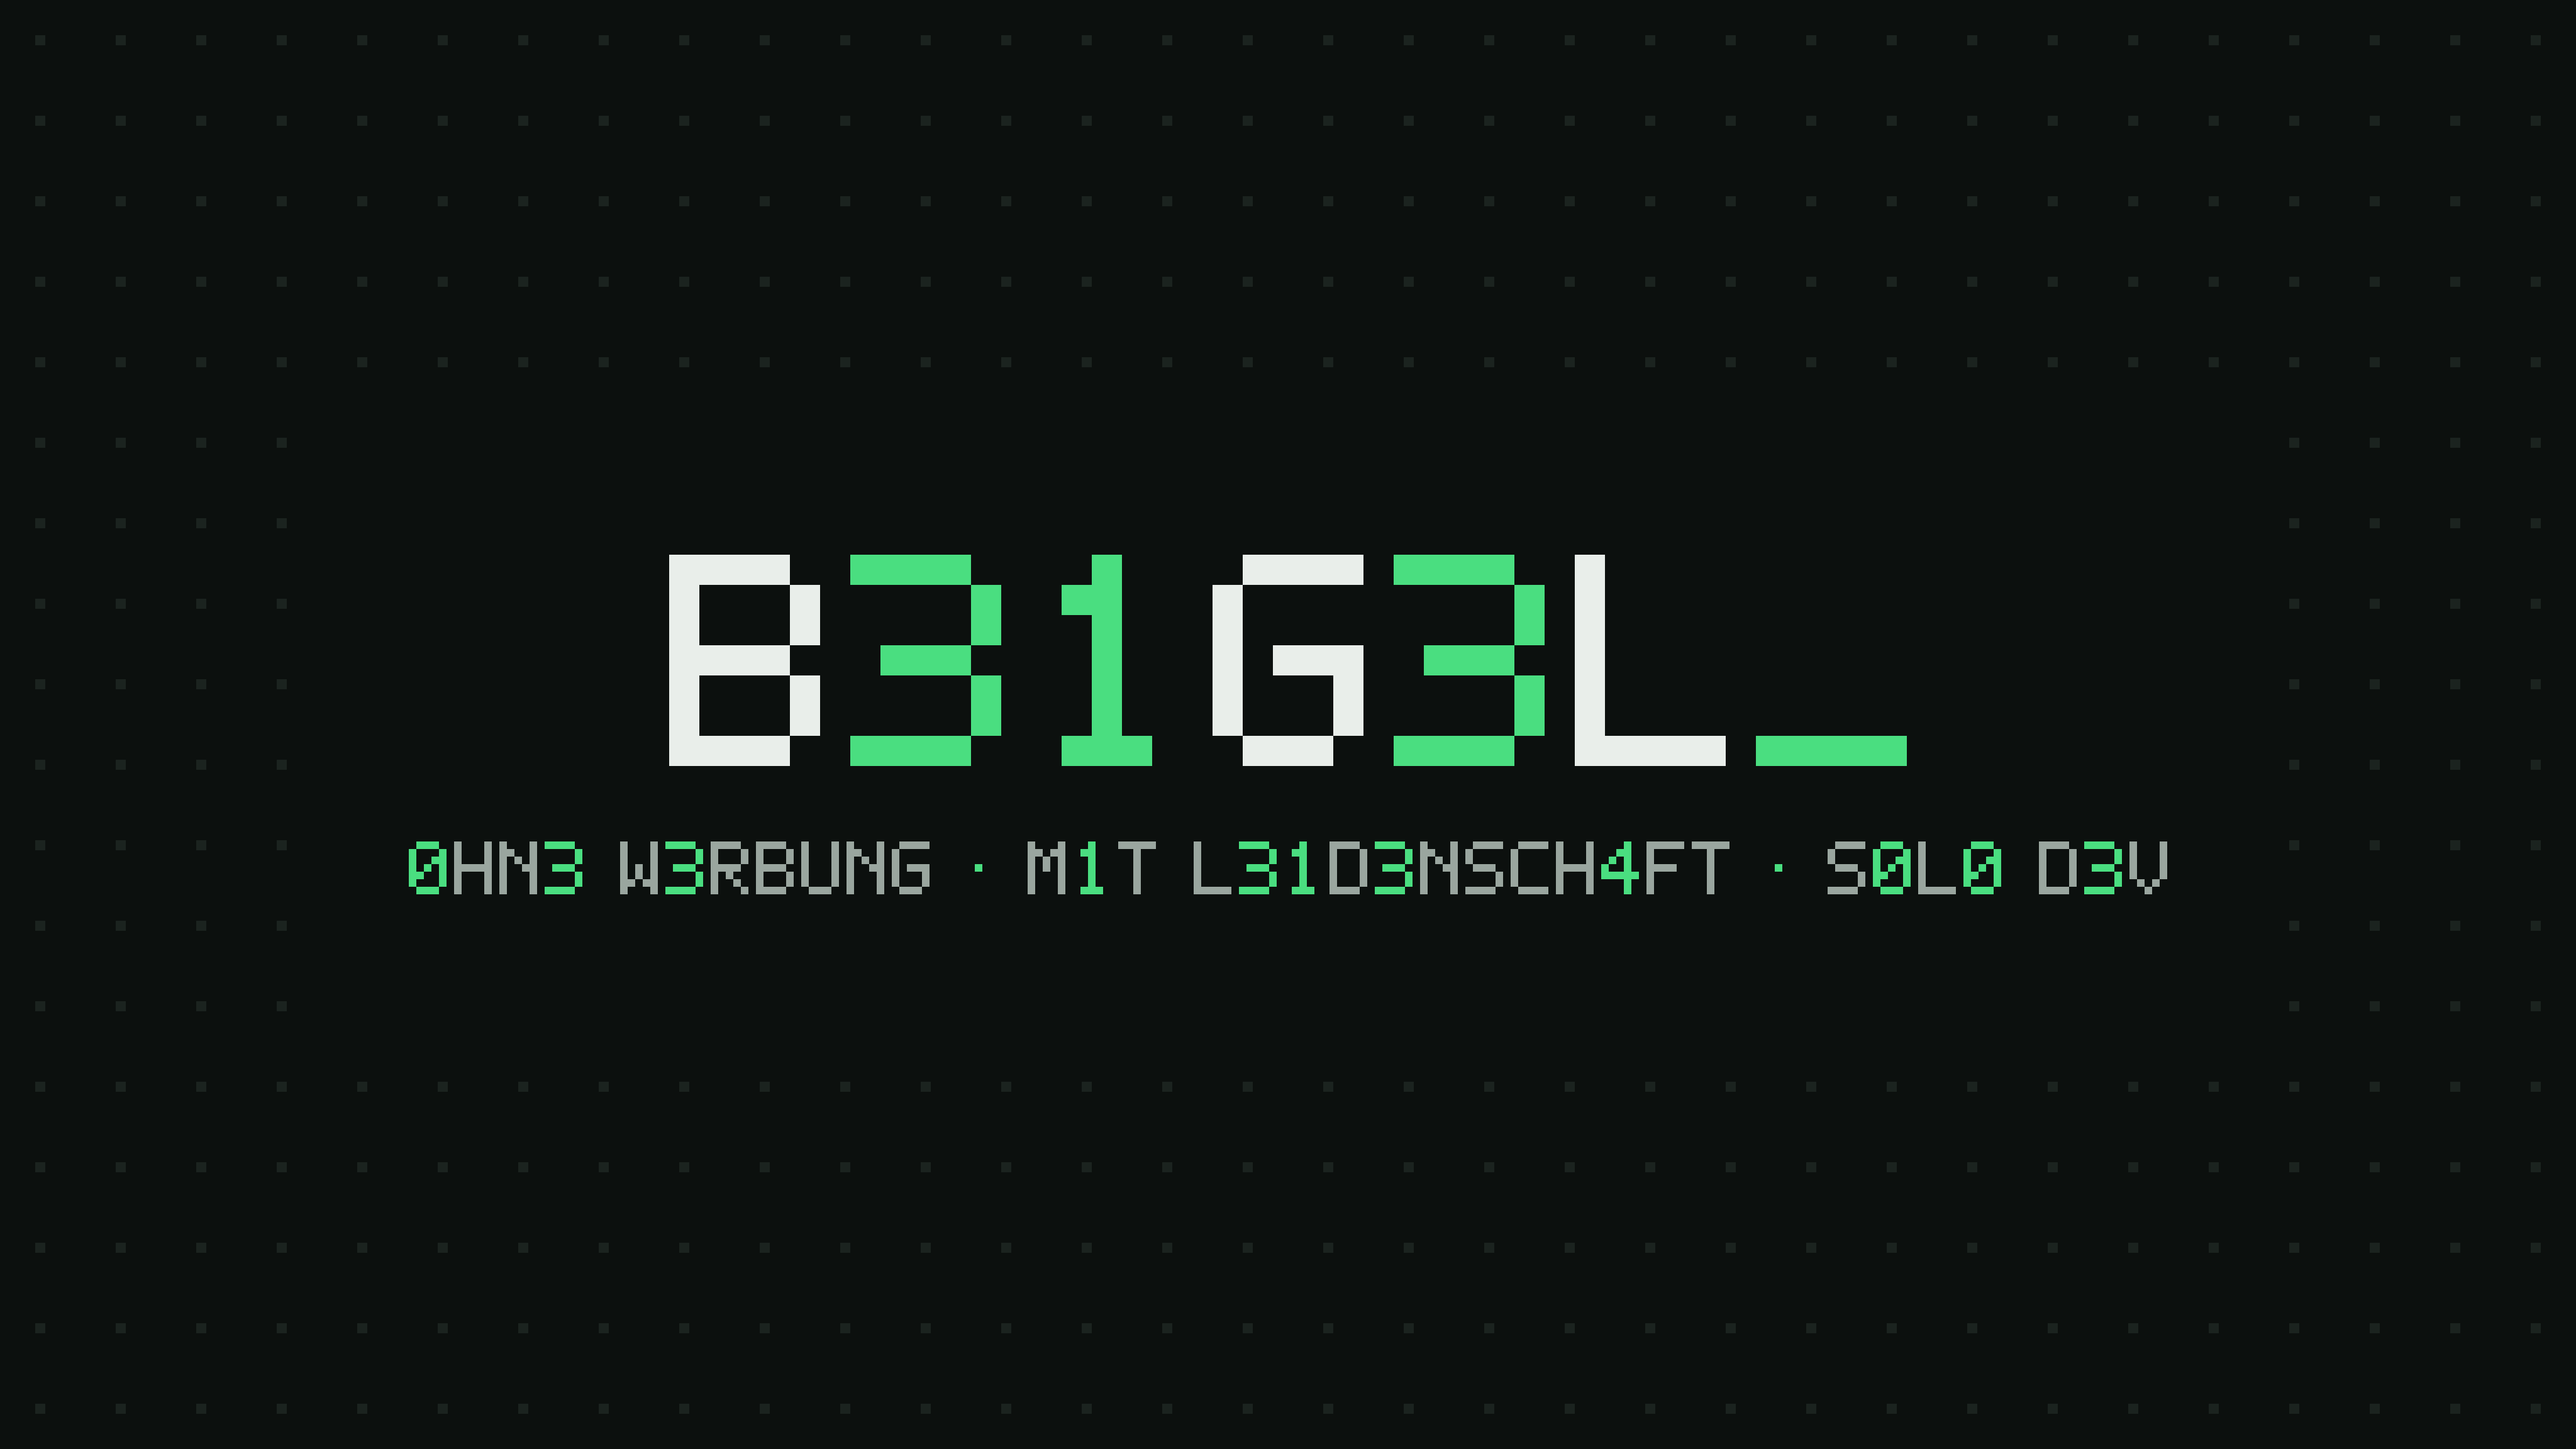
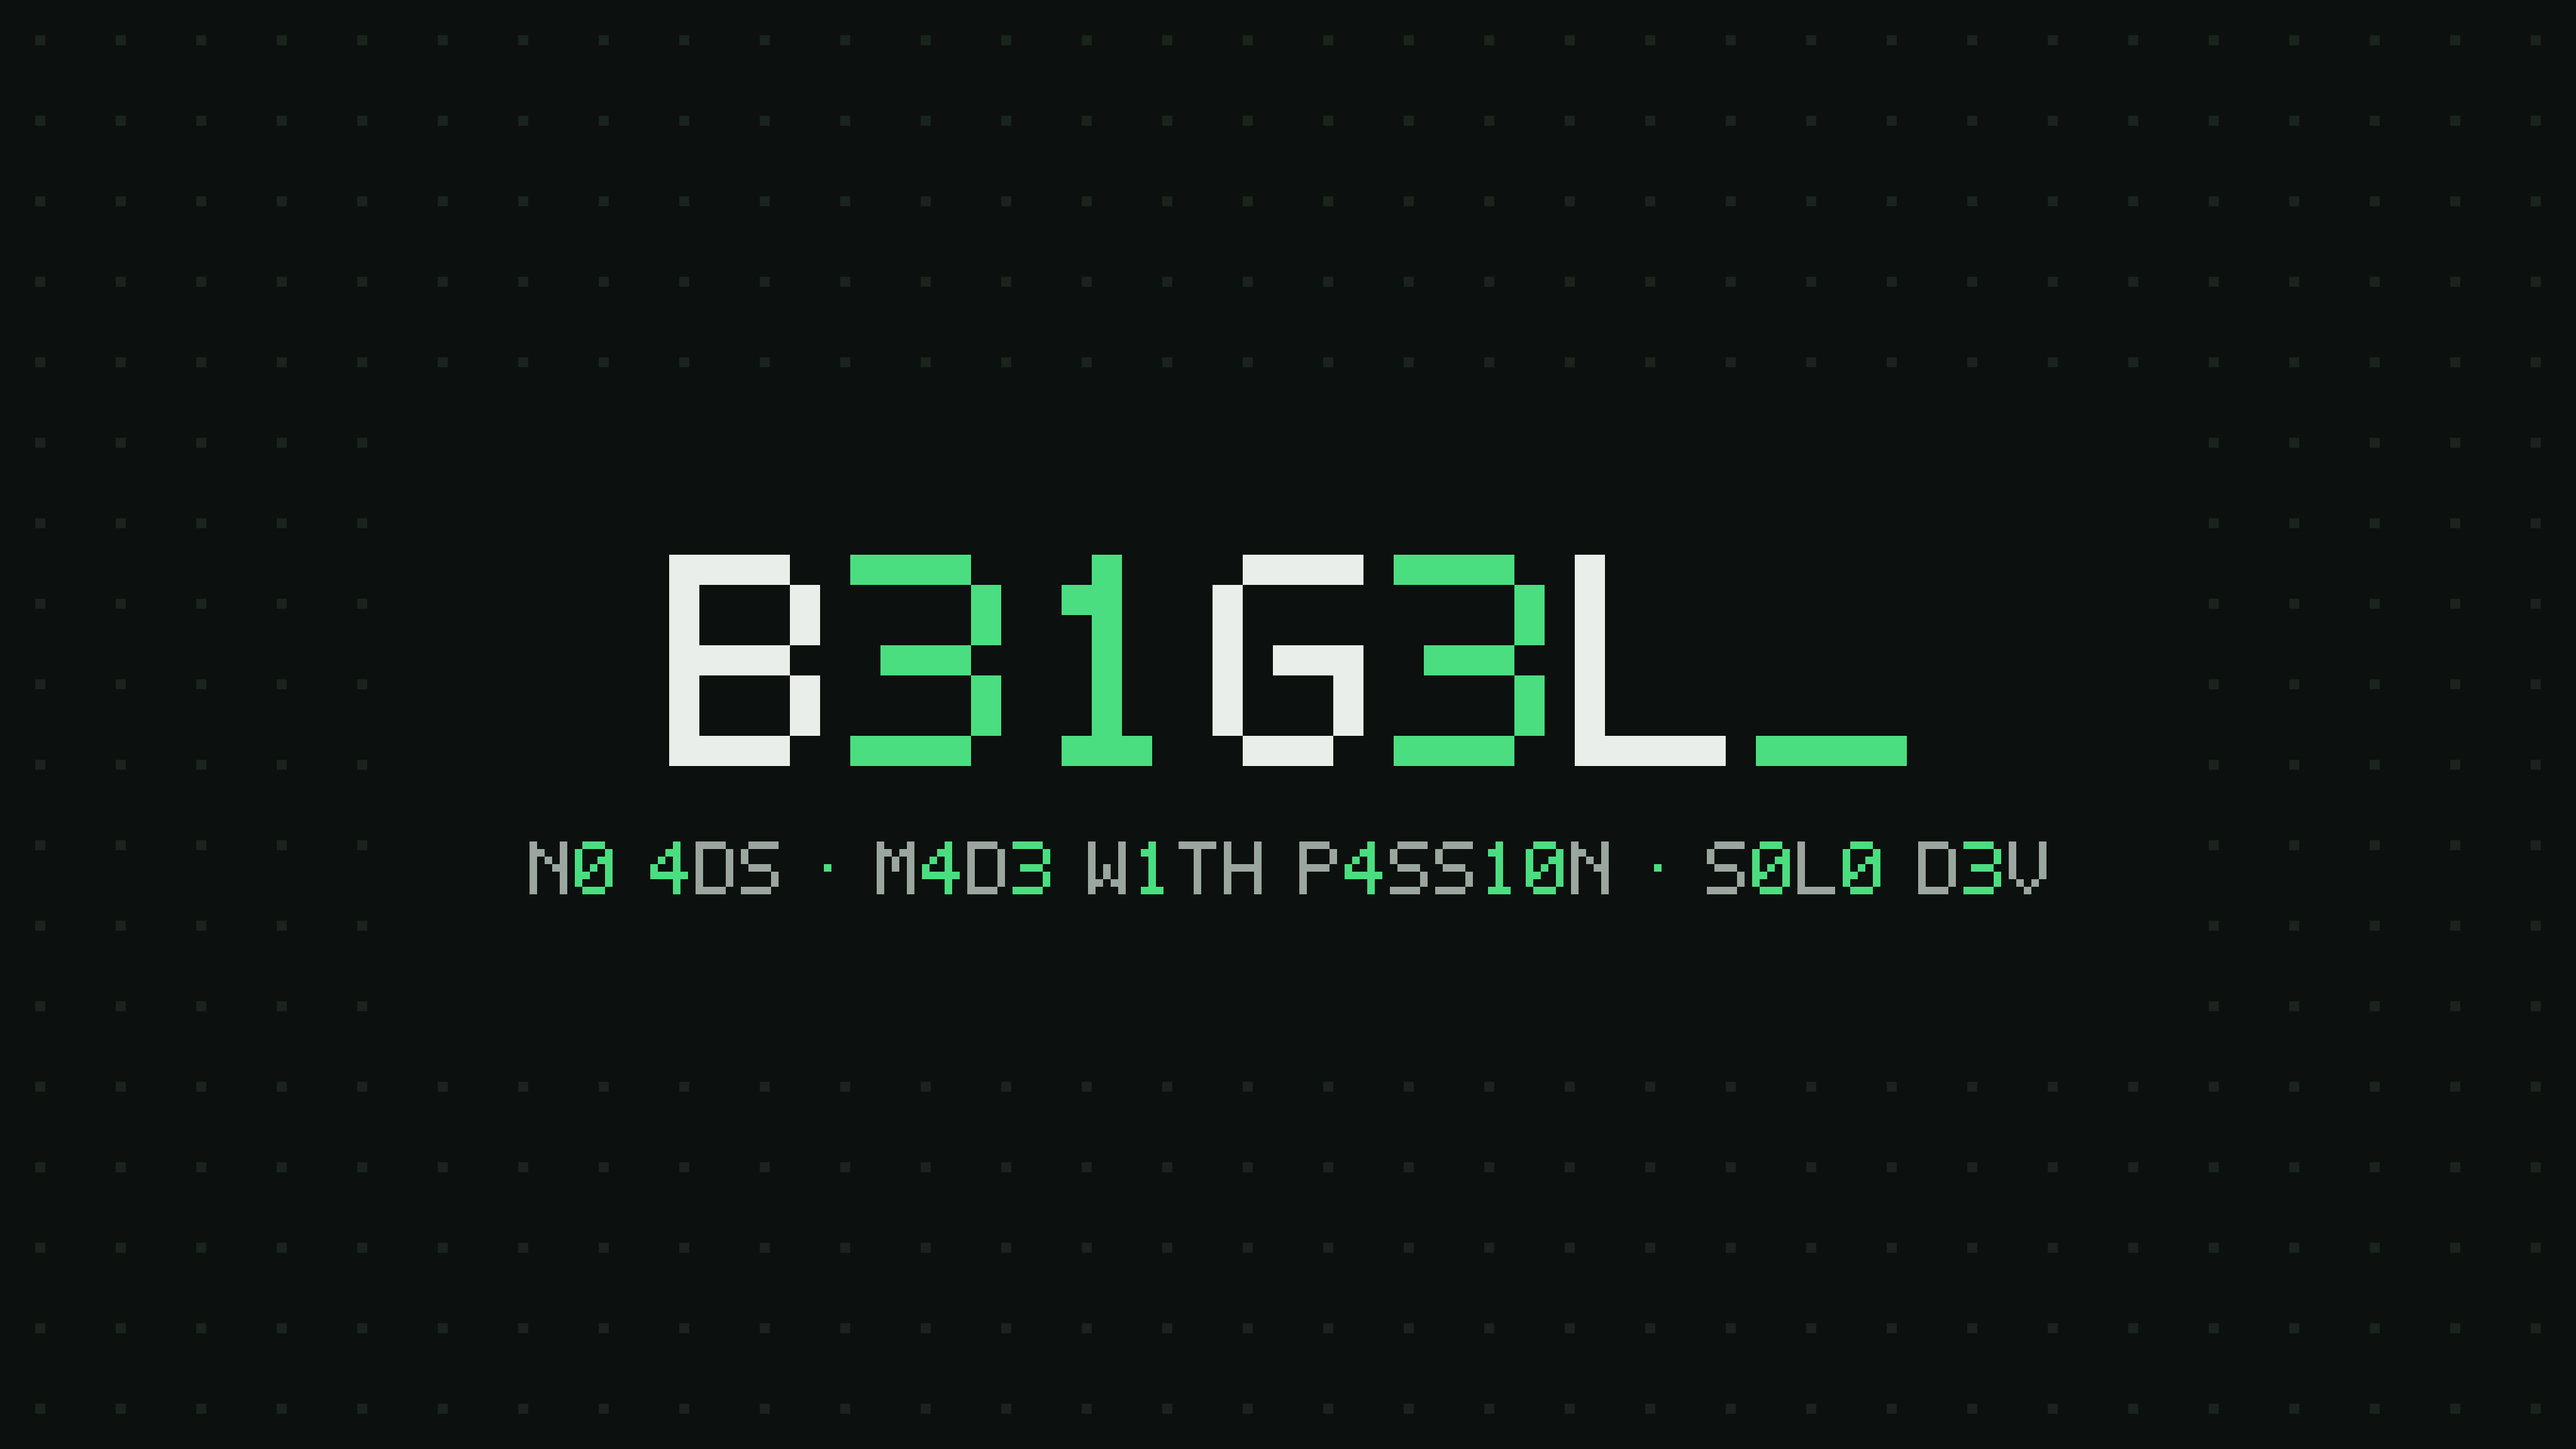
Play-Header: Schlagworte auf Englisch

Changed region(s): [[0.1562, 0.5625, 0.8438, 0.625]]

diff --git a/brand/make-brand.js b/brand/make-brand.js
@@ -26,6 +26,7 @@ const G = {
   C: ['.####', ...rep('#....', 5), '.####'],
   F: ['#####', '#....', '#....', '####.', '#....', '#....', '#....'],
   V: [...rep('#...#', 5), '.#.#.', '..#..'],
+  P: ['####.', '#...#', '#...#', '####.', '#....', '#....', '#....'],
   ' ': rep('...', 7),
 };
 
@@ -120,7 +121,7 @@ function banner(w, h, c, pal, tags, tc, bg = c) {
   return svg(w, h, body);
 }
 
-const TAGS = ['0HN3 W3RBUNG', 'M1T L31D3NSCH4FT', 'S0L0 D3V'];
+const TAGS = ['N0 4DS', 'M4D3 W1TH P4SS10N', 'S0L0 D3V'];
 
 const files = {
   'logo.svg': logo(DARK, true),
